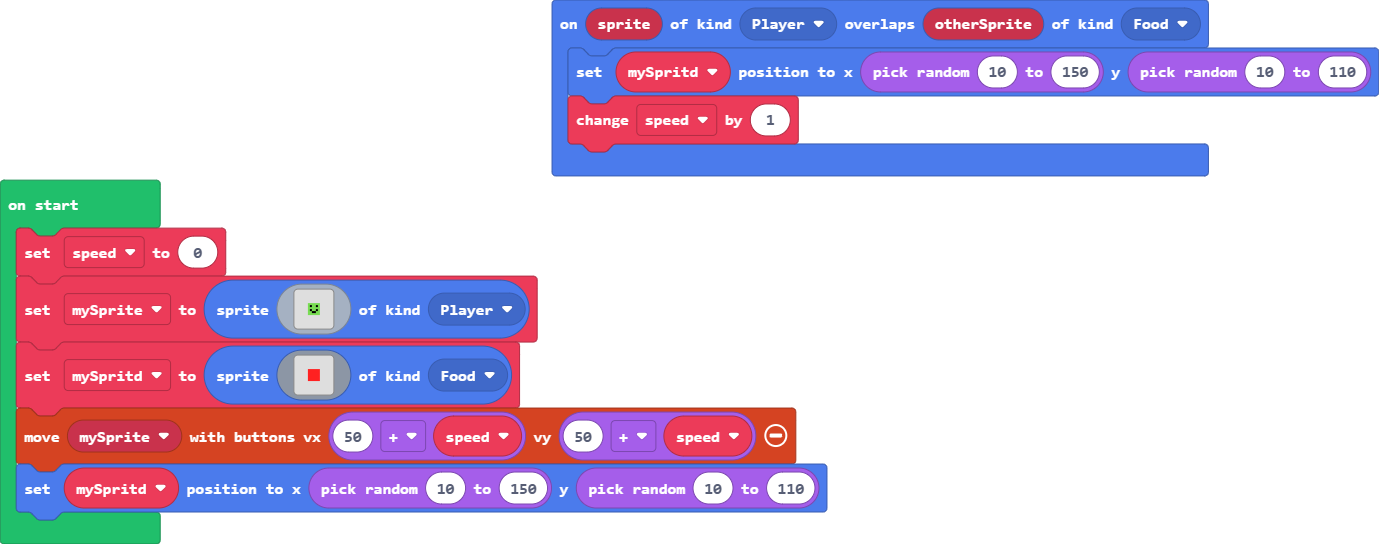
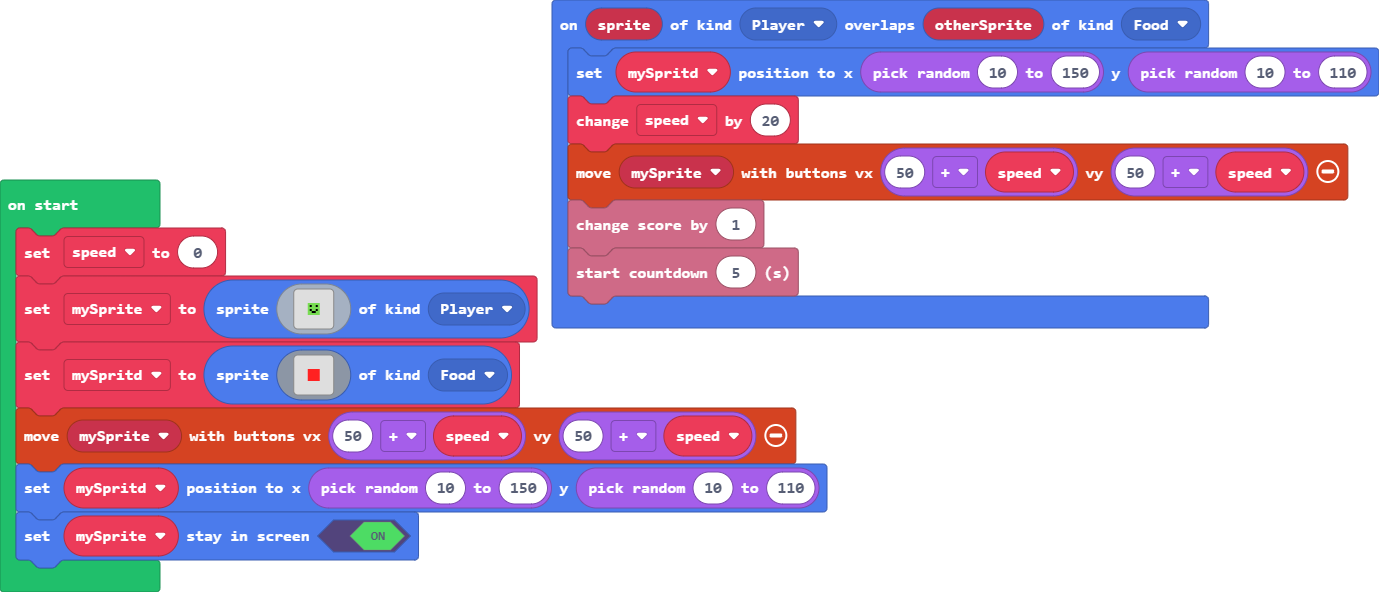
Update pxt.json, main.blocks, main.ts

diff --git a/main.ts b/main.ts
@@ -1,10 +1,15 @@
 sprites.onOverlap(SpriteKind.Player, SpriteKind.Food, function (sprite, otherSprite) {
     mySpritd.setPosition(randint(10, 150), randint(10, 110))
-    speed += 1
+    speed += 20
+    controller.moveSprite(mySprite, 50 + speed, 50 + speed)
+    info.changeScoreBy(1)
+    info.startCountdown(5)
 })
 let mySpritd: Sprite = null
+let mySprite: Sprite = null
 let speed = 0
-let mySprite = sprites.create(img`
+speed = 0
+mySprite = sprites.create(img`
     . . . . . . . . . . . . . . . . 
     . . . . . . . . . . . . . . . . 
     . . . . . . . . . . . . . . . . 
@@ -42,3 +47,4 @@ mySpritd = sprites.create(img`
     `, SpriteKind.Food)
 controller.moveSprite(mySprite, 50 + speed, 50 + speed)
 mySpritd.setPosition(randint(10, 150), randint(10, 110))
+mySprite.setStayInScreen(true)
